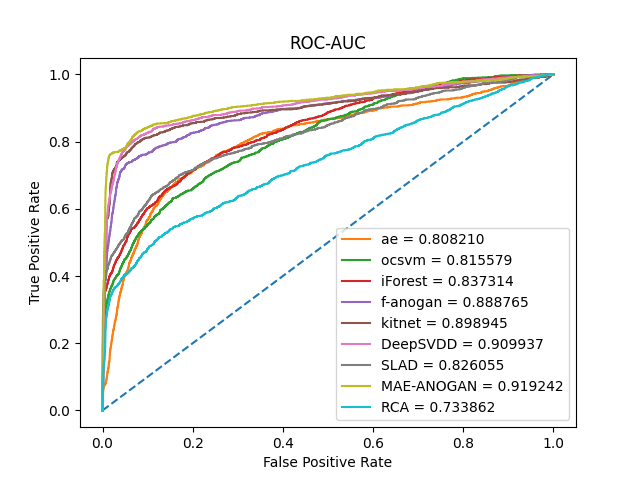
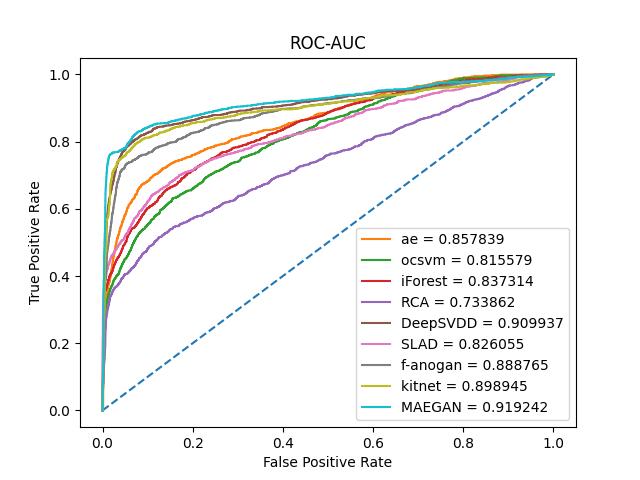
123

diff --git a/visual-UNSW/xiaorong.py b/visual-UNSW/xiaorong.py
@@ -42,7 +42,6 @@ def visual(name, labels, anomaly_score, fun="pr"):
     # 根据最优阈值生成预测标签
     predicted_labels = np.where(anomaly_score >= optimal_threshold, 1, 0)
     print("precision_recall_curve")
-    # print(classification_report(labels, predicted_labels))
     report_dict = classification_report(labels, predicted_labels, output_dict=True)
 
     # 手动格式化输出，保留4位小数
@@ -60,26 +59,20 @@ def visual(name, labels, anomaly_score, fun="pr"):
     print(roc_auc)
     plt.plot(fpr, tpr, label=f"{name} = {roc_auc:3f}")
 
-def fgan(path, name, fun="pr"):
-    df = pd.read_csv(path)
-    anomaly_score = df["anomaly_score"].values
-    y_test = load_UNSW(0.12)
-    visual(name, y_test, anomaly_score, fun)
-
-def UNSW_txt(path, name, fun="pr"):
+def fgan(path, name):
     df = pd.read_csv(path)
     anomaly_score = df["anomaly_score"].values
     y_test = load_UNSW()
-    visual(name, y_test, anomaly_score, fun)
+    visual(name, y_test, anomaly_score)
 
 def kitnet(path, name):
     anomaly_score = pd.read_csv(path)["remse"].values
     y_test = load_UNSW(0.12)
     visual(name, y_test, anomaly_score)
 
-def txt(path, name, fun="pr", ratio = 0.11):
+def txt(path, name, fun="pr"):
     anomaly_score = np.loadtxt(path)
-    y_test = load_UNSW(ratio)
+    y_test = load_UNSW()
     visual(name, y_test, anomaly_score, fun)
 
 def maegan(path, name):
@@ -95,20 +88,17 @@ def maegan(path, name):
     visual(name, label, anomaly_score)
 
 
-plt.clf()
-plt.plot([0, 1], [0, 1], linestyle="--")
-plt.title("ROC-AUC")
-plt.xlabel("False Positive Rate")
-plt.ylabel("True Positive Rate")
-UNSW_txt("/root/bishe/MAE-ANOGAN-UNSW/results/score-ok.csv", "ae")
-UNSW_txt("/root/bishe/f-anogan-UNSW/results/score-11.csv", "ocsvm")
-txt("/root/bishe/iForest/UNSW_best_params-11.txt", "iForest")
-txt("/root/bishe/visual-UNSW/RCA_config8_run1.txt", "RCA", "roc")
-txt("/root/bishe/visual-UNSW/DeepSVDD_config1_run1.txt", "DeepSVDD", "roc")
-txt("/root/bishe/visual-UNSW/SLAD_config12_run1.txt", "SLAD")
-fgan("/root/bishe/f-anogan-UNSW/results/score.csv", "f-anogan")
-kitnet("/root/bishe/kitnet/UNSW/RMSEs10.csv", "kitnet")
+
+maegan("/root/bishe/MAE-ANOGAN-UNSW-1/results/score.csv", "MAEGAN-1")
+maegan("/root/bishe/MAE-ANOGAN-UNSW-2/results/score.csv", "MAEGAN-2")
 maegan("/root/bishe/MAE-ANOGAN-UNSW/results/score-12.csv", "MAEGAN")
+# fgan("/root/bishe/MAE-ANOGAN-UNSW/results/score-ok.csv", "ae")
+# fgan("/root/bishe/f-anogan-UNSW/results/score-11.csv", "ocsvm")
+# # txt("/root/bishe/ocsvm/UNSW_best_params_fin.txt", "ocsvm")
+# txt("/root/bishe/iForest/UNSW_best_params-11.txt", "iForest")
+# fgan("/root/bishe/f-anogan-UNSW/results/score.csv", "f-anogan")
+# kitnet("/root/bishe/kitnet/UNSW/RMSEs10.csv", "kitnet")
+# maegan("/root/bishe/MAE-ANOGAN-UNSW/results/score.csv", "MAE-ANOGAN")
 
 # txt("DeepSVDD_config6_run1.txt", "DeepSVDD")
 # txt("SLAD_config12_run1_fake.txt", "SLAD")
@@ -118,8 +108,3 @@ maegan("/root/bishe/MAE-ANOGAN-UNSW/results/score-12.csv", "MAEGAN")
 # kitnet("/root/bishe/kitnet-fm/RMSEs10.csv", "RMSEs10")
 # kitnet("/root/bishe/kitnet-fm/RMSEs.csv", "kitnet")
 # kitnet("/root/bishe/kitnet-fm/RMSEs copy.csv", "copy")
-
-
-
-plt.legend()
-plt.savefig(f"ROC-AUC.png")

diff --git a/visual/xiaorong.py b/visual/xiaorong.py
@@ -104,14 +104,9 @@ plt.title("ROC-AUC")
 plt.xlabel("False Positive Rate")
 plt.ylabel("True Positive Rate")
 
-txt("/root/bishe/ae/after_UGR16_stand.txt", "ae") ###########需要调整
-txt("/root/bishe/ocsvm/after_best_params.txt", "ocsvm")
-txt("/root/bishe/iForest/after_best_params.txt", "iForest")
-txt("/root/bishe/visual/RCA_config6_run1.txt", "RCA")
-txt("DeepSVDD_config10_run1.txt", "DeepSVDD")
-txt("SLAD_config12_run1_fake.txt", "SLAD")
-fgan("/root/bishe/f-anogan_16/results/score_UGR16_old.csv", "f-anogan")
-kitnet("/root/bishe/kitnet/RMSEs.csv", "kitnet")
+
+fgan("/root/bishe/MAE-ANOGAN-UGR16-1/results/score.csv", "MAEGAN-HC")
+fgan("/root/bishe/MAE-ANOGAN-UGR16-2/results/score.csv", "MAEGAN-AE")
 fgan("/root/bishe/MAE-ANOGAN2/results/score.csv", "MAEGAN")
 
 # txt("/root/bishe/ocsvm/after_best_params.txt", "ocsvm")
@@ -121,8 +116,3 @@ fgan("/root/bishe/MAE-ANOGAN2/results/score.csv", "MAEGAN")
 # kitnet("/root/bishe/kitnet-fm/RMSEs10.csv", "RMSEs10")
 # kitnet("/root/bishe/kitnet-fm/RMSEs.csv", "kitnet")
 # kitnet("/root/bishe/kitnet-fm/RMSEs copy.csv", "copy")
-
-
-
-plt.legend()
-plt.savefig(f"ROC-AUC.png")

diff --git a/visual/anmalyback.py b/visual/anmalyback.py
@@ -44,7 +44,7 @@ def plot_augmented_anomaly_score(name, labels, anomaly_score, anomaly_columns, y
 
     # 使用 Seaborn 绘制平滑的 KDE 曲线
     sns.kdeplot(normal_scores, label="Normal", color='blue', linewidth=2)
-    sns.kdeplot(anomaly_scores, label="Augmented Anomaly", color='red', linewidth=2)
+    sns.kdeplot(anomaly_scores, label="Anomaly", color='red', linewidth=2)
     print(anomaly_columns)
     # 对每个异常类型分别绘制KDE曲线
     # for anomaly_type in anomaly_columns:
@@ -52,7 +52,7 @@ def plot_augmented_anomaly_score(name, labels, anomaly_score, anomaly_columns, y
     #     sns.kdeplot(anomaly_type_scores, label=anomaly_type, linewidth=2)
 
     # 设置图形标题和标签
-    plt.title(f'Augmented Anomaly Score Distribution with Specific Anomalies for {name}')
+    plt.title(f'Anomaly Score Distribution')
     plt.xlabel("Anomaly Score")
     plt.ylabel("Density")
     plt.legend()

diff --git a/visual/type.py b/visual/type.py
@@ -49,9 +49,13 @@ def fgan(path, name):
 results = []
 
 # 调用各个模型的函数并收集结果
+# results.append(fgan("/root/bishe/f-anogan_16/results/score_UGR16_old.csv", "f-anogan"))
+# results.append(kitnet("/root/bishe/kitnet/RMSEs.csv", "KitNet"))
+# results.append(fgan("/root/bishe/MAE-ANOGAN2/results/score.csv", "MAE-ANOGAN2"))
+
 results.append(fgan("/root/bishe/f-anogan_16/results/score_UGR16_old.csv", "f-anogan"))
-results.append(kitnet("/root/bishe/kitnet/RMSEs.csv", "KitNet"))
-results.append(fgan("/root/bishe/MAE-ANOGAN2/results/score.csv", "MAE-ANOGAN2"))
+results.append(kitnet("/root/bishe/kitnet/RMSEs.csv", "kitnet"))
+results.append(fgan("/root/bishe/MAE-ANOGAN2/results/score.csv", "MAEGAN"))
 # results.append(fgan("/root/bishe/MAE-ANOGAN/results/score.csv", "MAE-ANOGAN1"))
 
 # 将结果整理成 DataFrame，便于绘图
